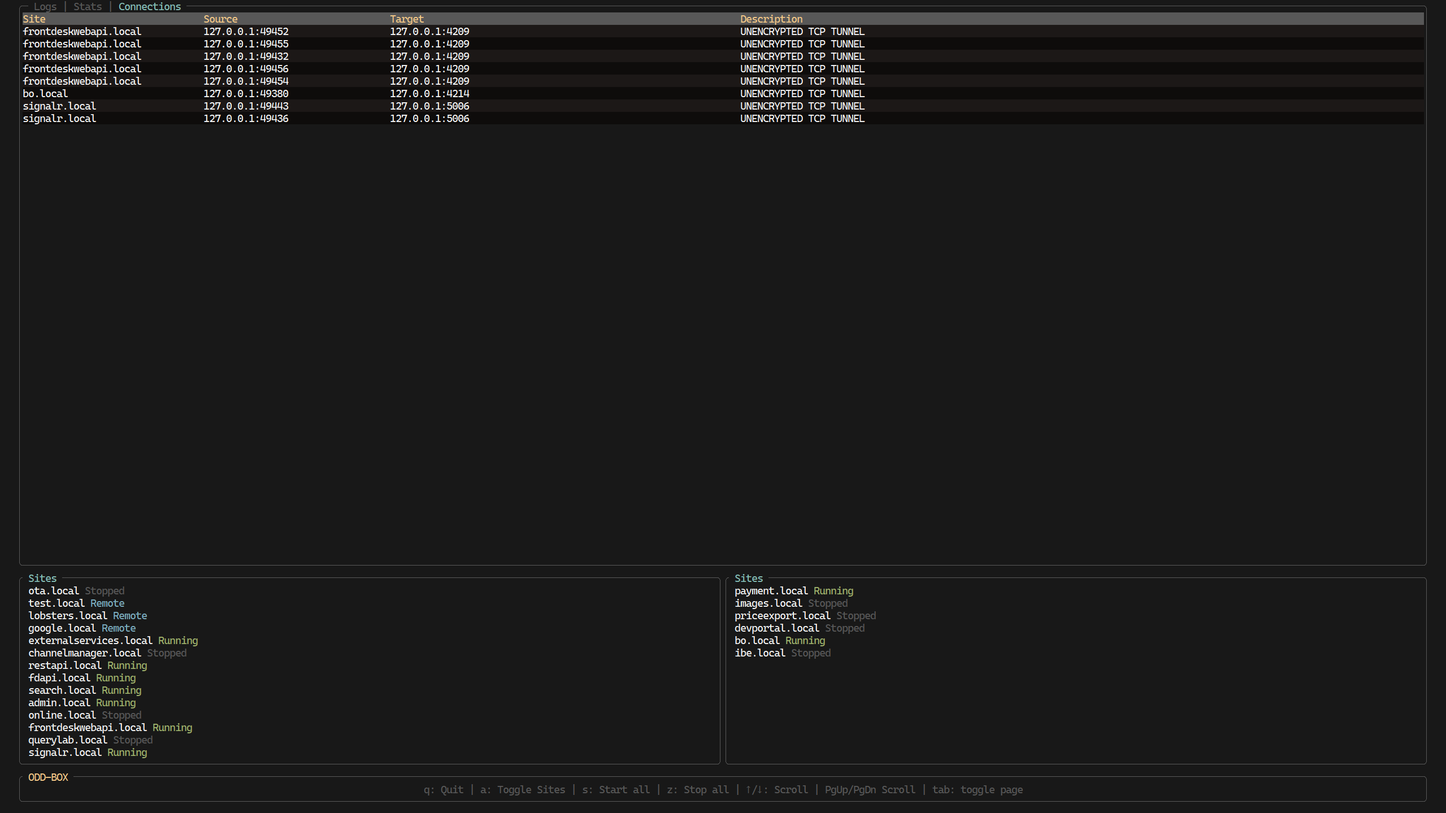
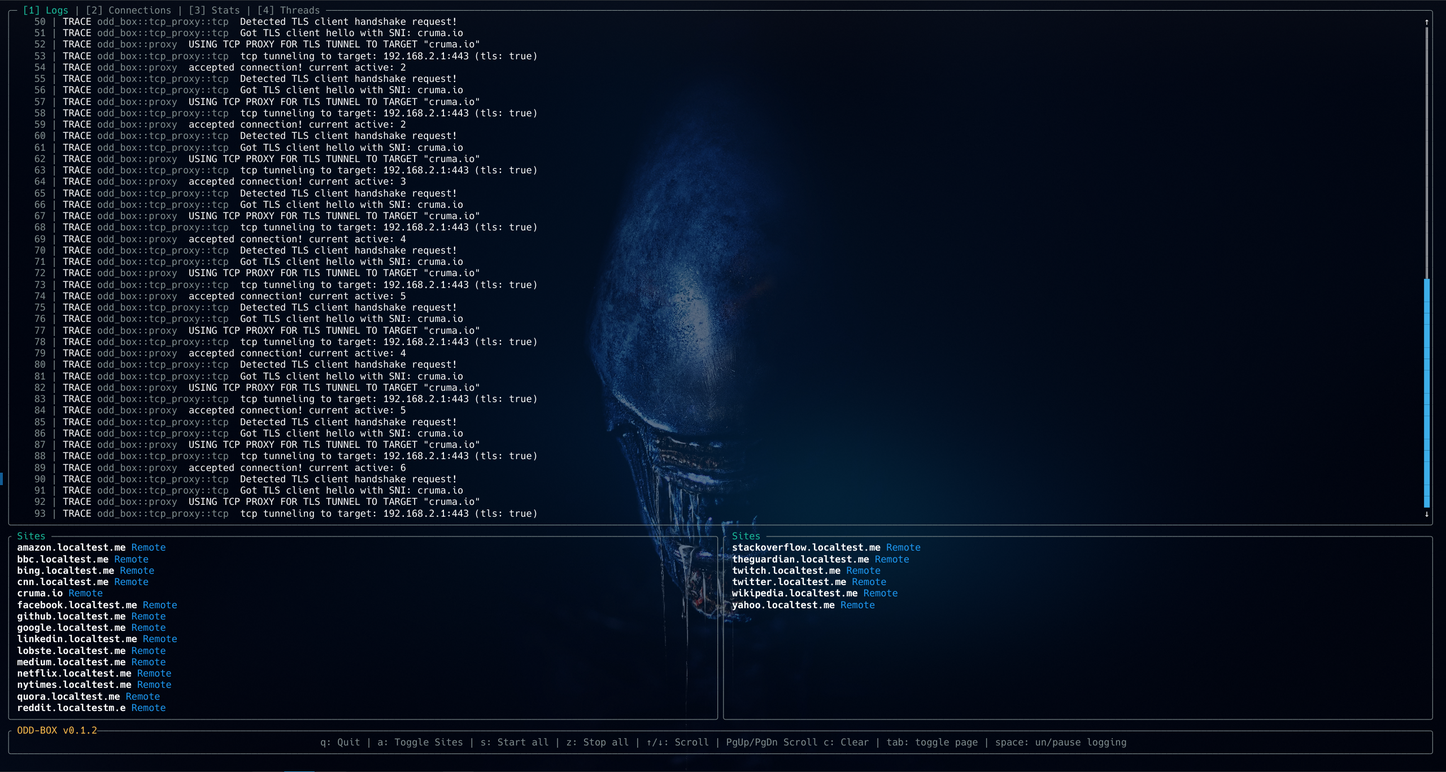
switch screenshot

diff --git a/README.md b/README.md
@@ -39,8 +39,8 @@ There is a basic administration API that can be enabled by adding "admin_api_por
 
 ### Screenshot(s)
 
-**odd-box v0.0.9:**
-![Screenshot of oddbox v0.0.9](/screenshot.png)
+**odd-box v0.1.2:**
+![Screenshot of oddbox v0.1.2](/screenshot.png)
 
 ### Configuration
 
